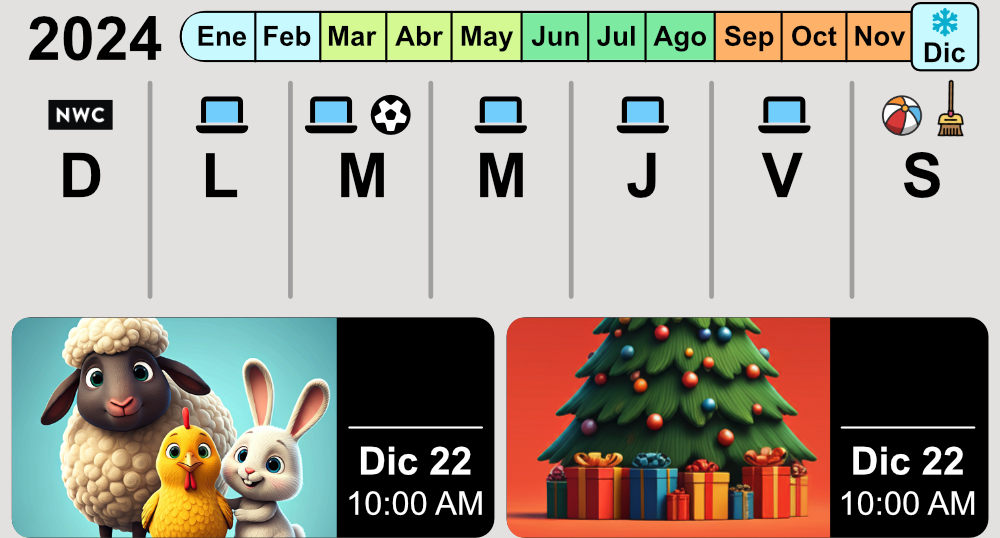
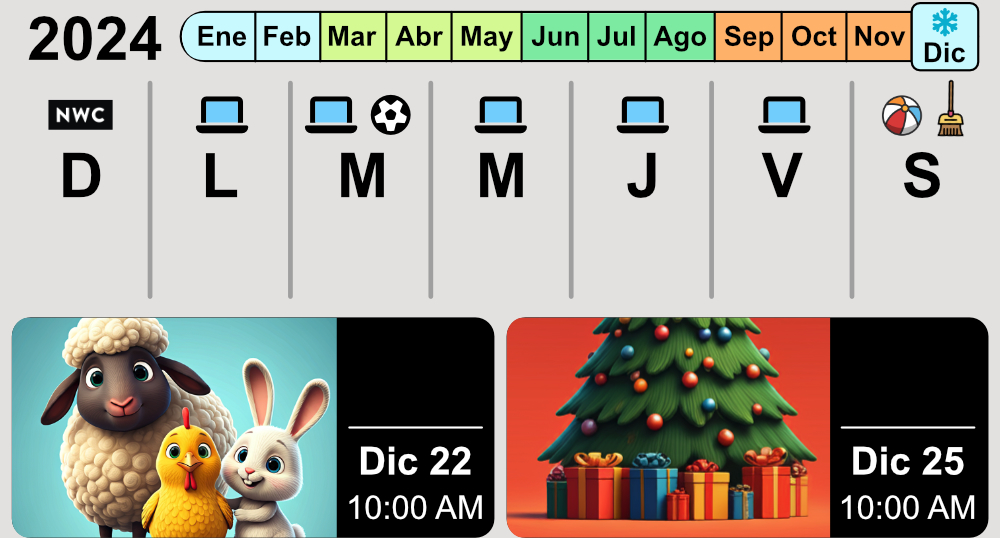
v8.4 Dynamic events count down (days)

Changed region(s): [[0.837, 0.8327, 0.992, 0.9814], [0.341, 0.8922, 0.496, 0.9814]]

diff --git a/app.js b/app.js
@@ -1,4 +1,4 @@
-const version = "8.2";
+const version = "8.4";
 const versionDiv = document.getElementById('version'); // Select the div with id 'version'
 versionDiv.innerHTML = version; // Set the inner HTML to 'v' concatenated with the version number
 
@@ -308,26 +308,57 @@ function rotateFan() {
 setInterval(rotateFan, 30); // Adjust interval for smoother or faster animation
 
 
-let ahora = 0;
+// //Events
+function evento(eventDateTime, ahora) {
+    // Parse the input date and time into a JavaScript Date object
+    const targetDate = new Date(eventDateTime);
+
+    // Remove the time portion from both dates to calculate full days only
+    const nowDate = new Date(ahora.getFullYear(), ahora.getMonth(), ahora.getDate());
+    const targetDateOnly = new Date(targetDate.getFullYear(), targetDate.getMonth(), targetDate.getDate());
+
+    // Calculate the difference in milliseconds between the two dates
+    const differenceInMilliseconds = targetDateOnly - nowDate;
+
+    // Convert the difference from milliseconds to days
+    const daysRemaining = differenceInMilliseconds / (1000 * 60 * 60 * 24);
+
+    // Return the number of days remaining
+    return `${daysRemaining}<span class="text-lg">D</span>`;
+}
+
+
 let horas = 0;
 let minutos = 0;
 // Llamar a las funciones de actualización cada segundo
 setInterval(() => {
-    // ahora = new Date(); // Obtener la hora actual
-    ahora = new Date("Oct 6 2024 13:31:42 GMT-0500 (Central Daylight Time");
+    ahora = new Date(); // Obtener la hora actual
+    // ahora = new Date("Dec 3 2024 13:31:42 GMT-0500 (Central Daylight Time");
     horas = ahora.getHours(); // Obtener las horas
     minutos = ahora.getMinutes(); // Obtener los minutos
     actualizarHora();
     actualizarSemaforo();
     actualizarCalendario(); // Actualizar el calendario
-    mostrarCortina() // Mostrar coritna
-}, 1000); //cada segundo
+    mostrarCortina(); // Mostrar cortina
+
+    // Calcular y mostrar los días restantes para cada evento
+    let cuentaEvento1 = evento("12/22/2024 10:00 AM", ahora);
+    let cuentaEvento2 = evento("12/25/2024 10:00 AM", ahora);
+
+    let eventDiv1 = document.getElementById('event-1');
+    eventDiv1.innerHTML = cuentaEvento1;
+
+    let eventDiv2 = document.getElementById('event-2');
+    eventDiv2.innerHTML = cuentaEvento2;
+
+}, 1000); // cada segundo
+
 
 // Recargar api / Comment when on development
-// setInterval(() => {
-//     mostrarTemperatura(); // Actualizar la temperatura
-// }, 600000); // cada 15 mins
-// mostrarTemperatura();
+setInterval(() => {
+    mostrarTemperatura(); // Actualizar la temperatura
+}, 600000); // cada 15 mins
+mostrarTemperatura();
 
 // Recargar la página
 // setInterval(() => {

diff --git a/index.html b/index.html
@@ -46,7 +46,7 @@
 
 
     <!-- Módulo de clima -->
-    <div id="clima" class="relative rounded-lg w-full h-[113px] flex gap-1 flex justify-center relative bg-purple-300" >
+    <div id="clima" class="relative rounded-lg w-full h-[113px] flex gap-1 flex justify-center relative bg-purple-300 overflow-hidden" >
         <div class="w-[260px] bg-center bg-no-repeat bg-contain pt-[15px]" style="background-image: url('img/clima.jpg');">
             <div class="w-[260px] h-[55px] relative">
                 <span class="absolute top-1/2 -translate-y-1/2 rounded-full w-10 h-10 bg-white flex justify-center items-center font-bold text-2xl pt-[3px]">--</span>
@@ -71,9 +71,9 @@
         </div>
 
 
-        <div id="event-1" class="text-center text-3xl font-bold text-white absolute bottom-[42px] left-[117px]">20<span class="text-lg">D</span></div>
+        <div id="event-1" class="w-[53px] text-center text-3xl font-bold text-white absolute bottom-[41px] left-[113px]"></div>
 
-        <div id="event-2" class="text-center text-3xl font-bold text-white absolute bottom-[42px] left-[283px]">26<span class="text-lg">D</span></div>
+        <div id="event-2" class="w-[53px] text-center text-3xl font-bold text-white absolute bottom-[41px] left-[279px]"></div>
 
     </div>
 
